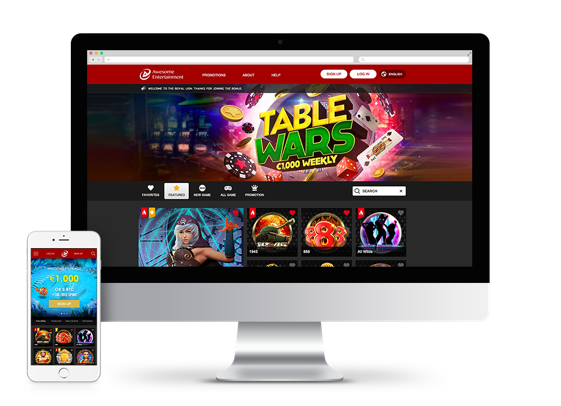
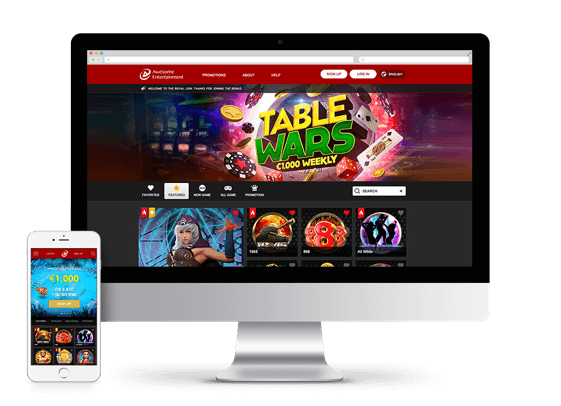
2nd

diff --git a/stylesheets/style.css b/stylesheets/style.css
@@ -65,9 +65,13 @@ body {
 .main-bg {
   position: absolute;
   width: 100%;
-  height: 100%;
-  min-height: 100vh;
-  background: url("../img/main.png") center top/100% auto no-repeat;
+  max-height: 1000px;
+  background: url("../img/head-star.png") center top/cover no-repeat, #000a29 url("../img/head.jpg") center top/90% no-repeat;
+}
+.main-bg img {
+  display: block;
+  width: 100%;
+  max-height: 1000px;
 }
 
 .wrap {
@@ -115,21 +119,24 @@ body {
 }
 
 section.main {
+  position: relative;
+  height: 70vh;
   color: #fff;
   background: url("../img/logo.svg") 0px 20px no-repeat;
 }
 section.main .main-text {
-  width: 350px;
+  position: relative;
+  width: 450px;
   margin: auto;
-  padding-top: 460px;
+  top: 75%;
 }
 section.main .main-text h1 {
   text-align: center;
-  font-size: 25px;
+  font-size: 32px;
   margin-bottom: 12px;
 }
 section.main .main-text p {
-  font-size: 14px;
+  font-size: 18px;
   font-weight: 100;
   line-height: 1.8;
 }
@@ -234,7 +241,23 @@ section.platform .device {
   overflow: hidden;
   z-index: 1;
   border-radius: 8px;
+  background-color: #444;
   box-shadow: 0 4px 10px 0 rgba(161, 172, 183, 0.5);
+}
+.stream-vid .video-control {
+  position: absolute;
+  width: 100%;
+  height: 100%;
+  background-color: rgba(0, 0, 0, 0.5);
+  z-index: 1;
+}
+.stream-vid .ae-logo {
+  position: absolute;
+  z-index: 1;
+  width: 130px;
+  top: 10px;
+  left: 10px;
+  filter: drop-shadow(0px 1px 2px rgba(0, 0, 0, 0.5));
 }
 .stream-vid video {
   width: 100%;
@@ -267,7 +290,7 @@ section.platform .device {
   position: absolute;
   width: 850px;
   left: 50%;
-  margin-left: -475px;
+  margin-left: -425px;
   text-align: center;
   top: 0;
 }

diff --git a/sass/style.scss b/sass/style.scss
@@ -11,9 +11,14 @@ body {
 .main-bg {
 	position: absolute;
 	width: 100%;
-	height: 100%;
-	min-height: 100vh;
-	background: url('../img/main.png') center top/100% auto no-repeat;
+	max-height: 1000px;
+	background: url('../img/head-star.png') center top/cover no-repeat, #000a29 url('../img/head.jpg') center top/90% no-repeat;
+	img {
+		display: block;
+		width: 100%;
+		max-height: 1000px;
+		
+	}
 }
 
 .wrap {
@@ -61,19 +66,22 @@ body {
 
 section {
 	&.main {
+		position: relative;
+		height: 70vh;
 		color: #fff;
 		background: url('../img/logo.svg') 0px 20px no-repeat;
 		.main-text {
-			width: 350px;
+			position: relative;
+			width: 450px;
 			margin: auto;
-			padding-top: 460px;
+			top: 75%;
 			h1 {
 				text-align: center;
-				font-size: 25px;
+				font-size: 32px;
 				margin-bottom: 12px;
 			}
 			p {
-				font-size: 14px;
+				font-size: 18px;
 				font-weight: 100;
 				line-height: 1.8;
 			}
@@ -184,7 +192,23 @@ section {
 	overflow: hidden;
 	z-index: 1;
 	border-radius: 8px;
+	background-color: #444;
 	box-shadow: 0 4px 10px 0 rgba(161, 172, 183, 0.5);
+	.video-control {
+		position: absolute;
+		width: 100%;
+		height: 100%;
+		background-color: rgba(0,0,0,0.5);
+		z-index: 1;
+	}
+	.ae-logo {
+		position: absolute;
+		z-index: 1;
+		width: 130px;
+		top: 10px;
+		left: 10px;
+		filter:drop-shadow(0px 1px 2px rgba(0,0,0,.5));
+	}
 	video {
 		width: 100%;
 		margin-top: -92px;
@@ -216,7 +240,7 @@ section {
 		position: absolute;
 		width: 850px;
 		left: 50%;
-		margin-left: -475px;
+		margin-left: -425px;
 		text-align: center;
 		top: 0;
 		h2 {

diff --git a/index.html b/index.html
@@ -7,7 +7,9 @@
 </head>
 <body>
 
-<div class="main-bg"></div>
+<div class="main-bg">
+	<img src="img/head-mask.png">
+</div>
 
 <div class="wrap">
 	<div class="cont">
@@ -53,6 +55,8 @@
 			</p>
 		</div>
 		<div class="stream-vid">
+			<!-- <div class="video-control"></div> -->
+			<img src="img/ae-white.svg" class="ae-logo">
 			<video id="video" autoplay controls></video>	
 		</div>
 		<div class="logo-ae-uwin">
@@ -104,7 +108,7 @@
 	</div>
 
 </div>
-
+<script src="https://code.jquery.com/jquery-1.10.2.js"></script>
 <script src="https://cdn.jsdelivr.net/npm/hls.js@latest"></script>
 
 <script>
@@ -123,6 +127,11 @@
       video.play();
     });
   }
+
+  $('.video-control').click(function() {
+  	console.log('sss');
+        $(video).play();
+    });
 </script>
 </body>
 </html>
